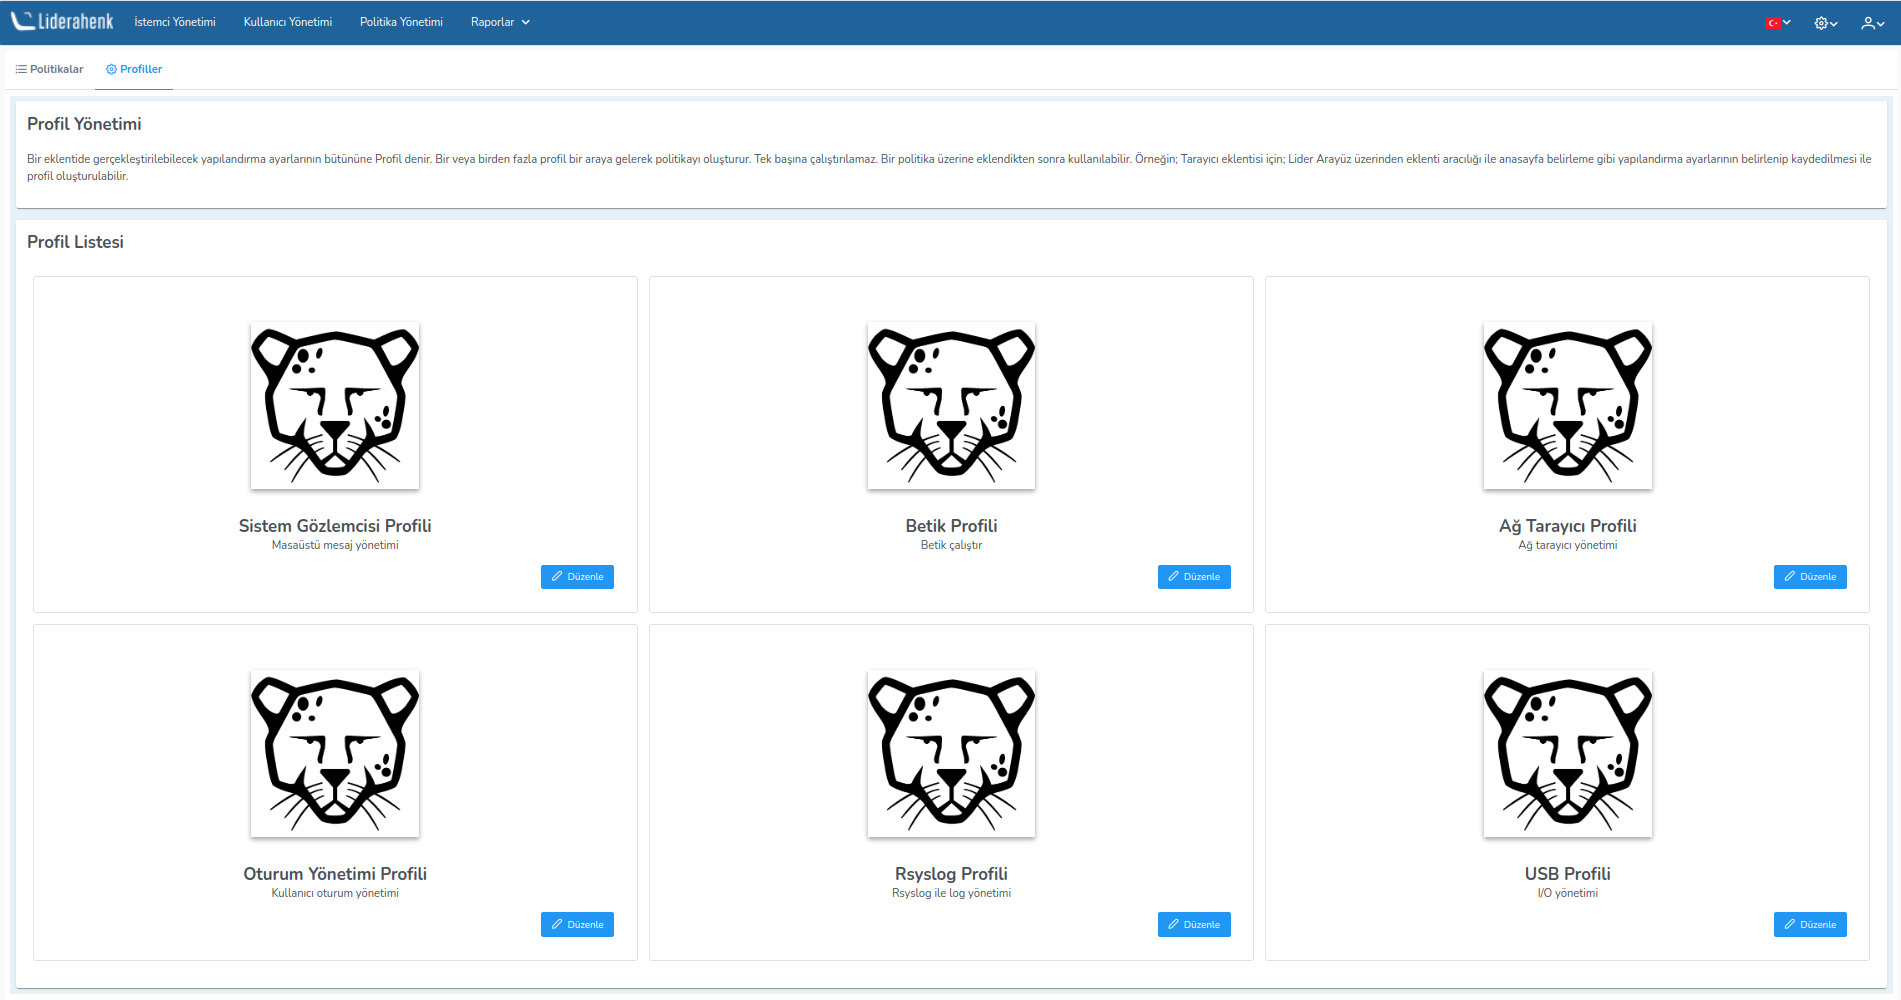
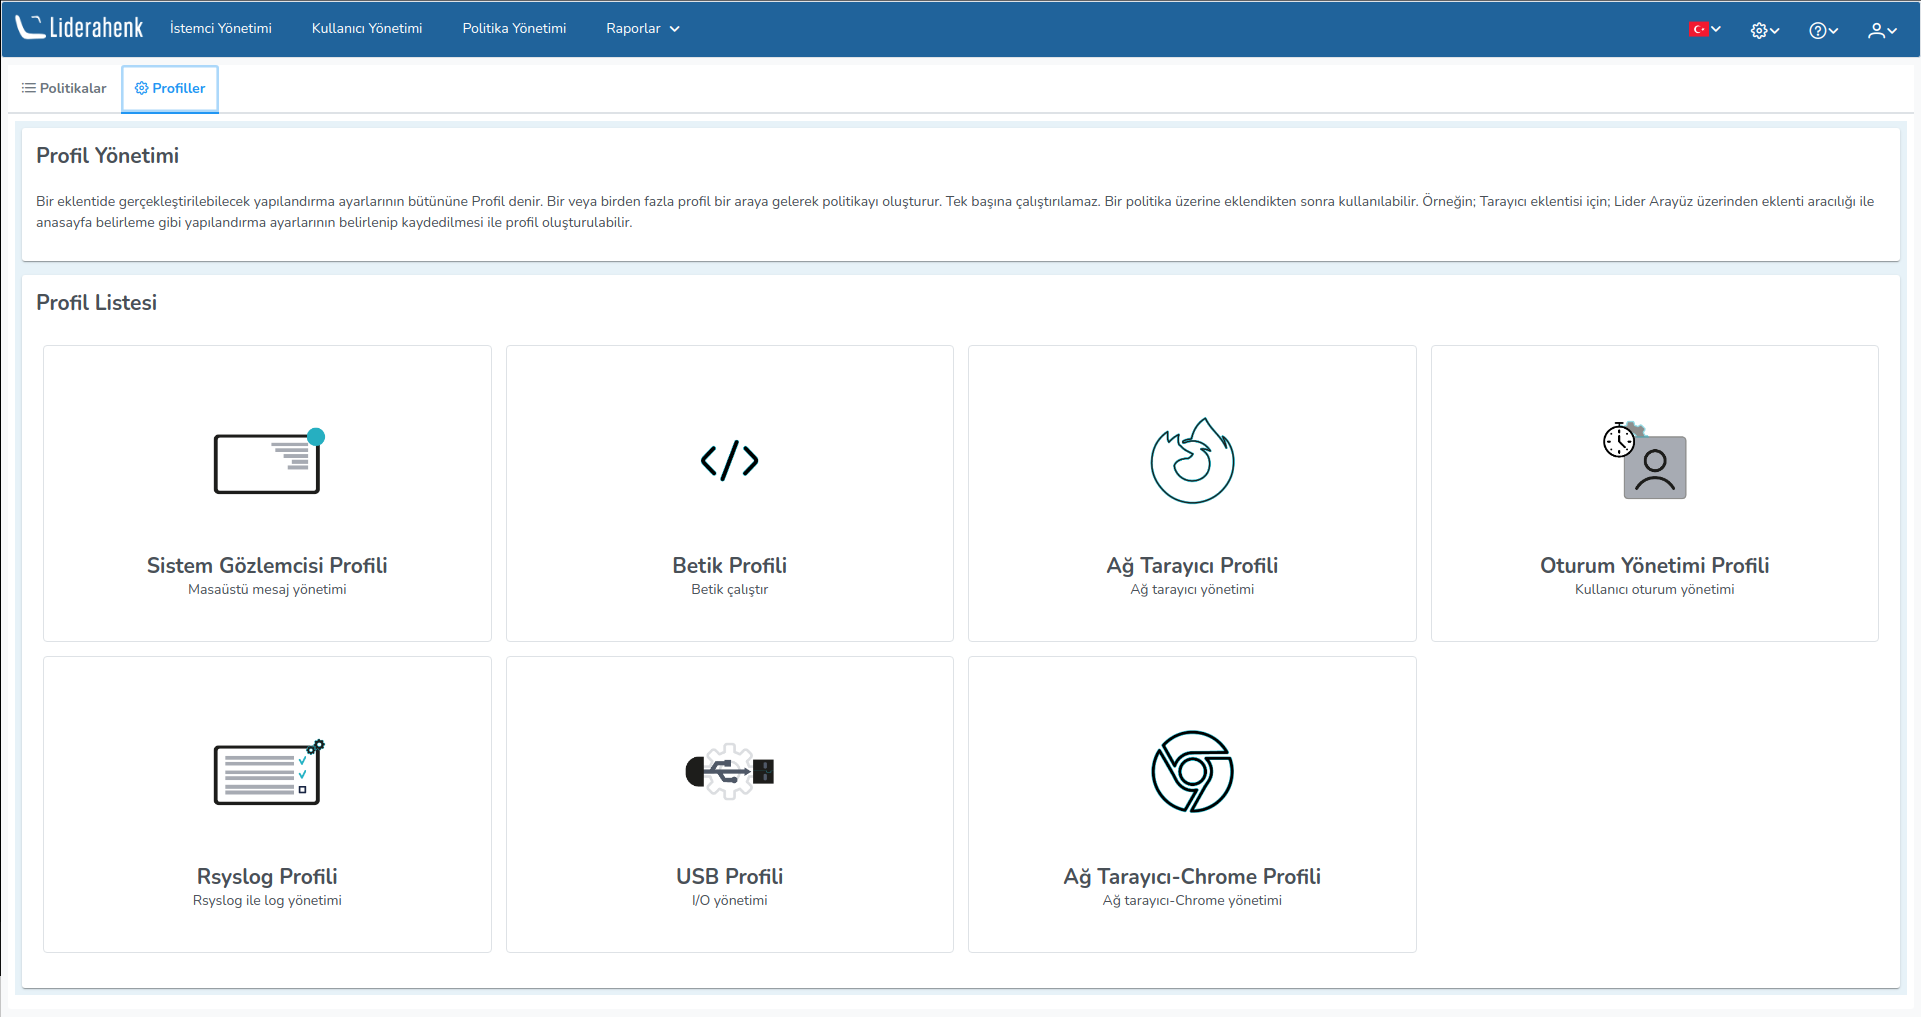
added chrome browser profil document

diff --git a/docs/lider3.0/policyManagement/profiles/chromeBrowserProfile.md b/docs/lider3.0/policyManagement/profiles/chromeBrowserProfile.md
@@ -1,0 +1,11 @@
+**Chrome Tarayıcı Ayarları**
+
+Chrome tarayıcı ayarlarında, Chrome başlagıç, çerezlerin yönetimi, eklenti kurulumu, vekil sunucu ayarları ve gizlilik ayarları yapabilirsiniz.
+Diğer ayarlar seçeneği ise chrome tarayıcınıza istediğiniz ayarı girmenizi sağlar. İstediğiniz ayarı anahtar-değer olarak girerek konfigüre edebilirsiniz.
+
+
+[![Profil](../images/profiles/chromeProfile.png)](../images/profiles/chromeProfile.png)
+
+[![Profil](../images/profiles/chromeProxy.png)](../images/profiles/chromeProxy.png)
+
+<link href=/lider3.0/assets/style.css rel=stylesheet></link>

diff --git a/docs/lider3.0/policyManagement/profiles/chromeBrowserProfile.tr.md b/docs/lider3.0/policyManagement/profiles/chromeBrowserProfile.tr.md
@@ -1,0 +1,10 @@
+**Chrome Tarayıcı Ayarları**
+
+Chrome tarayıcı ayarlarında, Chrome başlangıç, çerezlerin yönetimi, eklenti kurulumu, vekil sunucu ayarları ve gizlilik ayarları yapabilirsiniz.
+Diğer ayarlar seçeneği ise chrome tarayıcınıza istediğiniz ayarı girmenizi sağlar. İstediğiniz ayarı anahtar-değer olarak girerek konfigüre edebilirsiniz.
+
+[![Profil](../images/profiles/chromeProfile.png)](../images/profiles/chromeProfile.png)
+
+[![Profil](../images/profiles/chromeProxy.png)](../images/profiles/chromeProxy.png)
+
+<link href=/lider3.0/assets/style.css rel=stylesheet></link>

diff --git a/docs/lider3.0/policyManagement/profiles/chromeBrowserProfile.en.md b/docs/lider3.0/policyManagement/profiles/chromeBrowserProfile.en.md
@@ -1,0 +1,10 @@
+**Chrome Browser Settings**
+
+In the Chrome browser settings, you can set Chrome startup, cookies management, plug-in installation, proxy server settings, and privacy settings.
+The other settings option allows you to enter the desired setting in your chrome browser. You can configure the desired setting by entering it as a key-value. 
+
+[![Profil](../images/profiles/chromeProfile.png)](../images/profiles/chromeProfile.png)
+
+[![Profil](../images/profiles/chromeProxy.png)](../images/profiles/chromeProxy.png)
+
+<link href=/lider3.0/assets/style.css rel=stylesheet></link>

diff --git a/docs/lider3.0/policyManagement/profiles/browserProfile.md b/docs/lider3.0/policyManagement/profiles/browserProfile.md
@@ -1,6 +1,6 @@
 **İnternet Tarayıcı Ayarları**
 
-İnternet tarayıcı ayalarında internet tarayıcısının vekil sunucu, giriş sayfası, sekme ayarları, gizlilik ayarları, 
+İnternet tarayıcı ayarlarında internet tarayıcısının vekil sunucu, giriş sayfası, sekme ayarları, gizlilik ayarları, 
 döküman indirme gibi özelleştirmeler yapılabilir.
 
 [![Profil](../images/profiles/browserProfile.png)](../images/profiles/browserProfile.png)

diff --git a/docs/lider3.0/policyManagement/profiles/browserProfile.tr.md b/docs/lider3.0/policyManagement/profiles/browserProfile.tr.md
@@ -1,6 +1,6 @@
 **İnternet Tarayıcı Ayarları**
 
-İnternet tarayıcı ayalarında internet tarayıcısının vekil sunucu, giriş sayfası, sekme ayarları, gizlilik ayarları, 
+İnternet tarayıcı ayarlarında internet tarayıcısının vekil sunucu, giriş sayfası, sekme ayarları, gizlilik ayarları, 
 döküman indirme gibi özelleştirmeler yapılabilir.
 
 [![Profil](../images/profiles/browserProfile.png)](../images/profiles/browserProfile.png)
